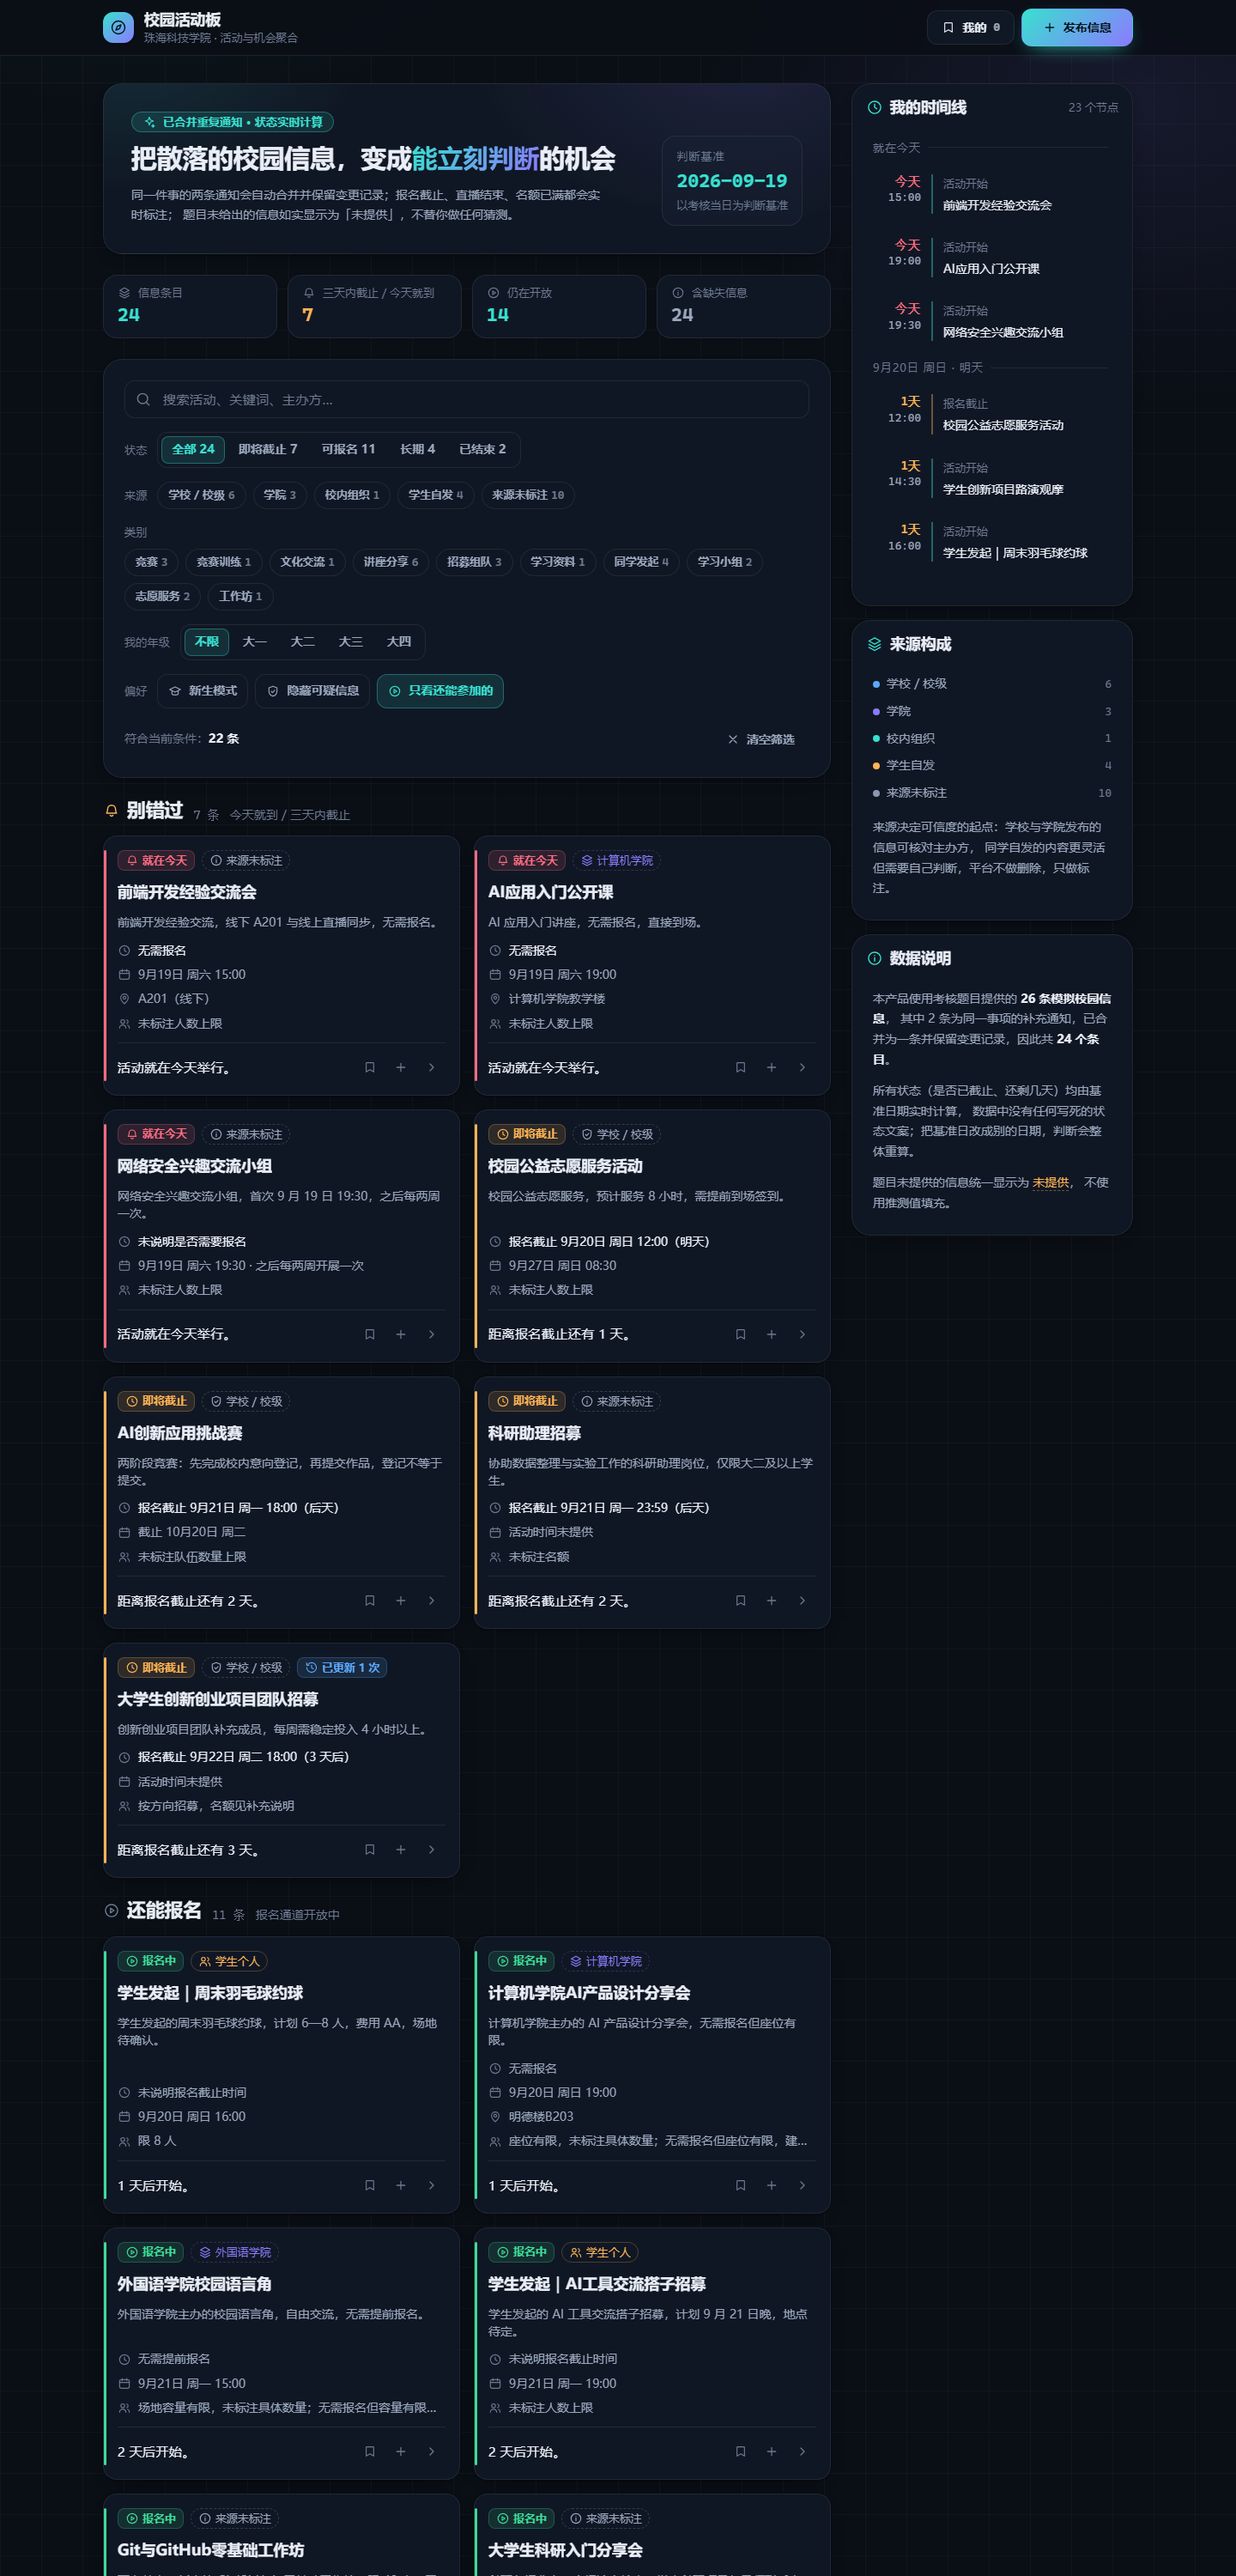
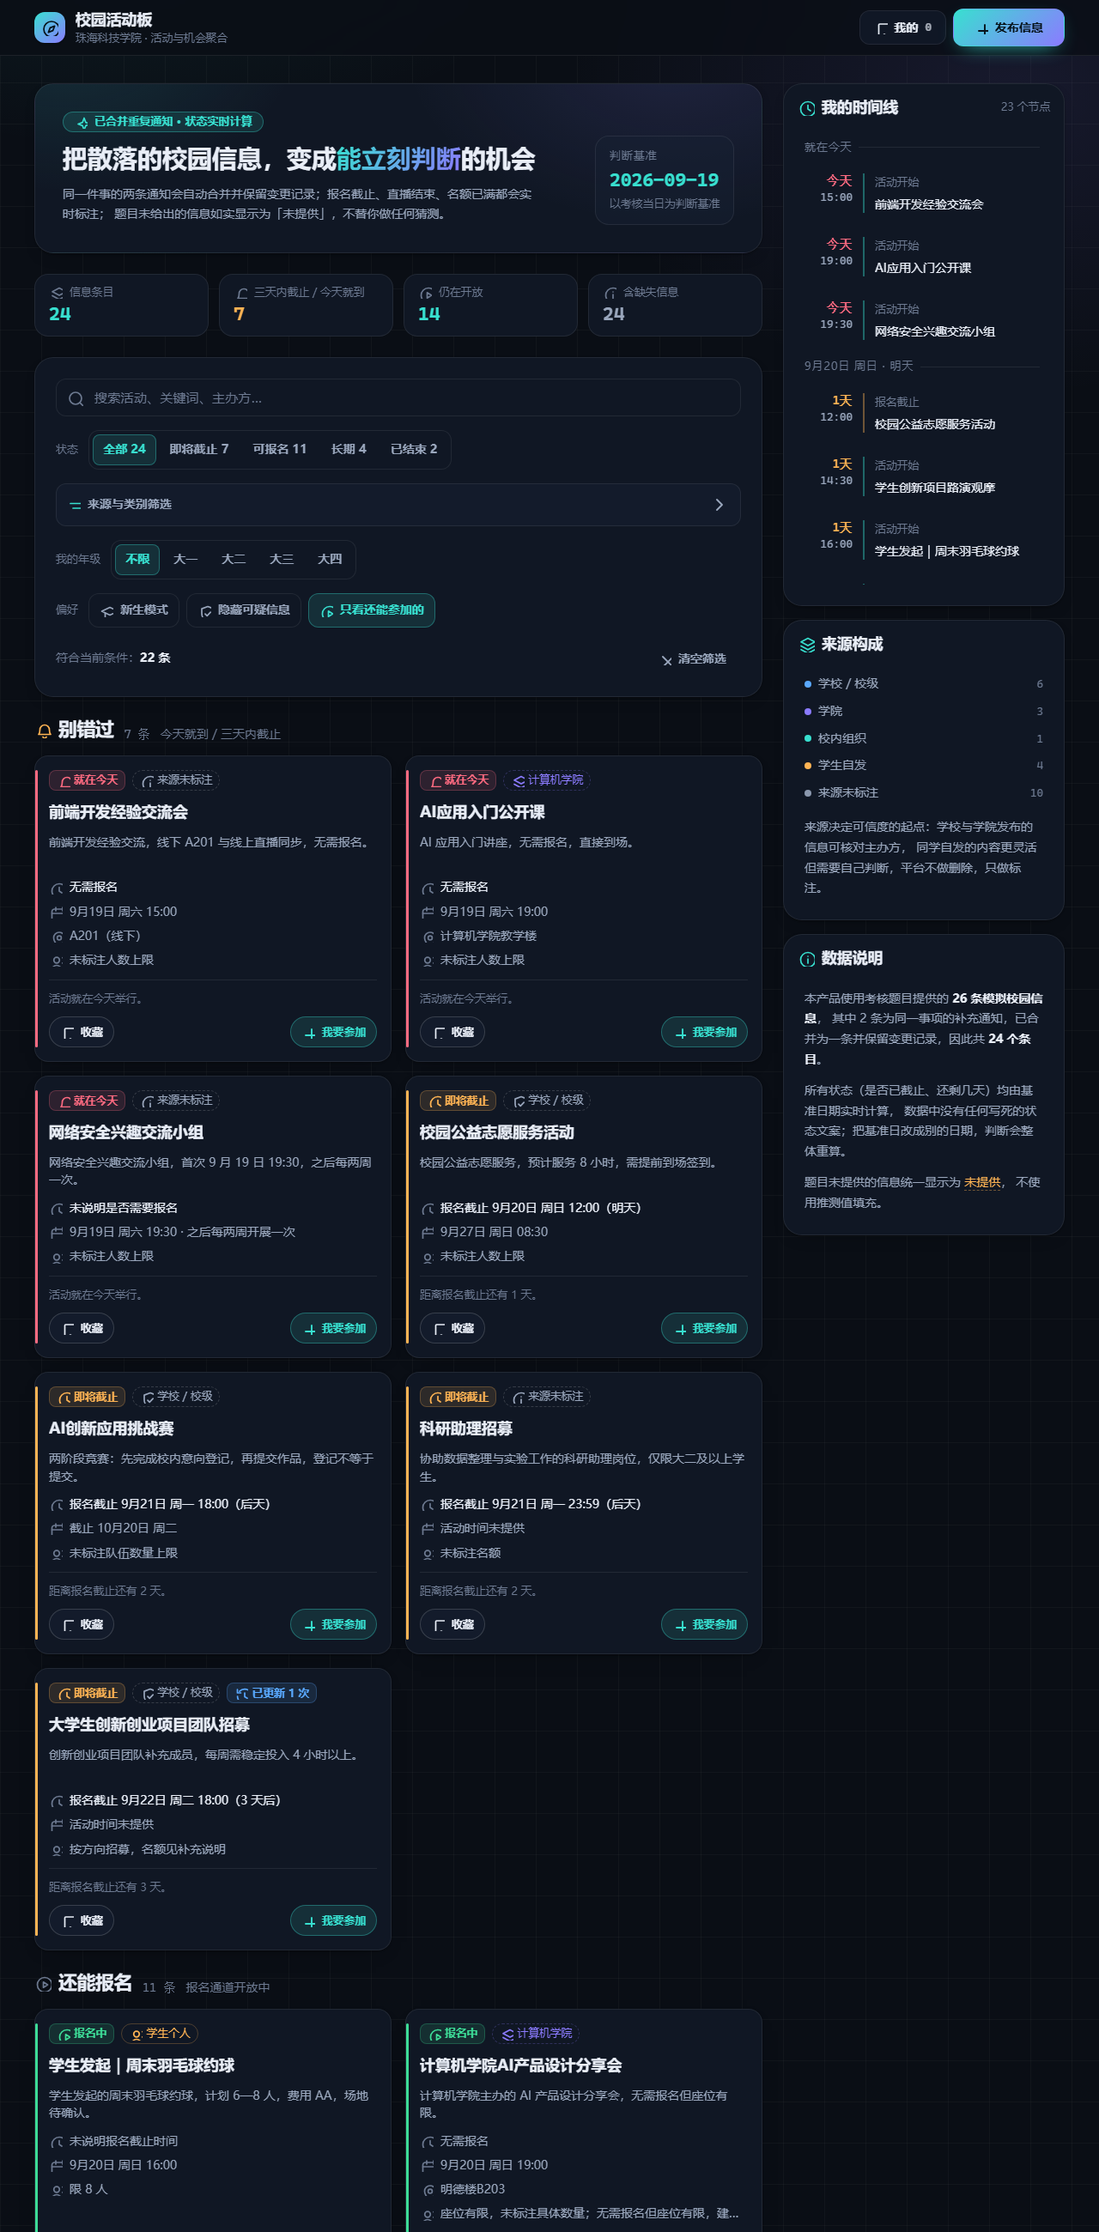
fix(ui): 修复卡片操作按钮过小、融入背景与状态说明被挤压的问题
用户反馈：收藏与加入按钮尺寸偏小，且颜色融入背景、看不出可点击。

根因（实测数据）
- .icon-btn 原为 32px、透明底、var(--text-subtle) 灰色图标，
  小于设计令牌自身规定的 40px 最小可点尺寸，且与卡片底色无对比
- 卡片底部把状态说明与三个按钮放在同一行：245px 可用宽度里按钮占掉 226px，
  状态说明被压缩到 6px 而完全不可见（浏览器实测 getBoundingClientRect）
- 网格最小列宽 300px 时，1280px 主列（约 820px）下每行只能排 1 张，横向空间被浪费

改动
- 新增 .act-btn：36px 高、描边 + 底色，图标 16px 并配文字（收藏 / 已收藏、我要参加 / 已加入）
- 主操作「我要参加」用主色填充，选中态整体填充主色，层级与状态一眼可辨
- .icon-btn 提升到 36px 并加描边底色；抽屉标题栏的关闭按钮单独降级为无边框
- 卡片底部改为纵向排列：状态说明独占一行（最多两行），操作按钮另起一行
- 移除卡片右下角冗余的「查看详情」箭头（标题本就可点开详情），
  为两个主要操作腾出空间；卡片增加手型光标反馈
- 筛选芯片与分段控件同步提升到 36px，与卡片按钮同档
- 网格最小列宽定为 280px（实测下限：再窄则两个按钮与状态说明无法共存）

防回归测试（tests/dom-wiring.test.js 新增 3 项，现共 13 项）
- 可点元素尺寸不得低于 36px（含分段控件整体高度与 --h-control 令牌）
- 卡片操作按钮必须同时具备图标与文字，不允许裸图标
- .act-btn 必须声明可见描边与底色，防止再次融入背景

同时更新交付截图（卡片按钮改版，旧图已过时）并补充按钮两种状态图。

diff --git a/css/app.css b/css/app.css
@@ -607,7 +607,7 @@
   letter-spacing: var(--ls-label);
 }
 
-/* 分段控件：互斥选项 */
+/* 分段控件：互斥选项。外层留白 4px，内部按钮 36px，总高 44px */
 .segmented {
   display: inline-flex;
   gap: var(--sp-1);
@@ -618,7 +618,7 @@
 }
 
 .segmented button {
-  height: calc(var(--h-control) - var(--sp-2));
+  height: 36px;
   padding: 0 var(--sp-3);
   border-radius: calc(var(--r-md) - var(--sp-1));
   color: var(--text-muted);
@@ -637,14 +637,14 @@
   box-shadow: inset 0 0 0 1px var(--border-accent);
 }
 
-/* 筛选芯片：可多选 */
+/* 筛选芯片：可多选。36px 与卡片按钮同档，保证触屏可点 */
 .chip {
   display: inline-flex;
   align-items: center;
   gap: var(--sp-1);
-  height: 32px;
+  height: 36px;
   padding: 0 var(--sp-3);
-  border: 1px solid var(--border);
+  border: 1px solid var(--border-strong);
   border-radius: var(--r-pill);
   background: var(--bg-elev);
   color: var(--text-muted);
@@ -765,10 +765,10 @@
 }
 
 /* 卡片网格：同宽同高，杜绝大小不一。
-   上限 420px 保证宽屏下仍是多列，而不是把单卡拉成一条长带。 */
+   最小列宽 280px 是实测下限：再窄则底部的两个操作按钮与状态说明无法共存。 */
 .cards {
   display: grid;
-  grid-template-columns: repeat(auto-fill, minmax(min(100%, 300px), 1fr));
+  grid-template-columns: repeat(auto-fill, minmax(min(100%, 280px), 1fr));
   gap: var(--sp-4);
   align-items: stretch;
 }
@@ -798,6 +798,11 @@
 
 .card:focus-within {
   border-color: var(--border-accent);
+}
+
+/* 卡片本身可点开详情（标题是主要入口），给出指针反馈 */
+.card:has(.card-title-btn) {
+  cursor: pointer;
 }
 
 /* 左侧状态竖条：仅用于状态，不做装饰 */
@@ -898,50 +903,151 @@
   color: var(--text);
 }
 
+/* 卡片底部：状态说明独占一行，操作按钮另起一行。
+   之前两者同排，245px 的宽度里按钮占掉 226px，状态文字被压缩到 6px 而不可见
+   （实测数据），所以改为纵向排列。 */
 .card-foot {
   display: flex;
-  align-items: center;
-  justify-content: space-between;
-  gap: var(--sp-2);
+  flex-direction: column;
+  gap: var(--sp-3);
   margin-top: auto;
   padding-top: var(--sp-3);
   border-top: 1px solid var(--border);
 }
 
+/* 卡片底部的状态说明：整行可用，最多两行 */
+.card-status-note {
+  min-width: 0;
+  font-size: var(--fs-xs);
+  color: var(--text-subtle);
+  line-height: var(--lh-snug);
+  display: -webkit-box;
+  -webkit-line-clamp: 2;
+  -webkit-box-orient: vertical;
+  overflow: hidden;
+}
+
 .card-actions {
   display: flex;
   align-items: center;
-  gap: var(--sp-1);
+  justify-content: space-between;
+  gap: var(--sp-2);
 }
 
+/* 两个操作按钮都按内容宽度排布：
+   若让次级按钮占满剩余空间，它会与主操作视觉等重，削弱层级。
+   主操作靠主色填充区分，次级靠描边区分。 */
+.card-actions .act-btn {
+  flex: 0 0 auto;
+}
+
+.card-actions .icon-btn {
+  flex: 0 0 auto;
+}
+
+/* 卡片操作按钮
+   之前用 32px 无底色图标，既小于 40px 的可点尺寸，也和卡片底色融在一起、
+   看不出可点击。改为带描边与底色的明确按钮：默认可见，悬停加强。 */
+.act-btn {
+  display: inline-flex;
+  align-items: center;
+  gap: var(--sp-2);
+  height: 36px;
+  padding: 0 var(--sp-3);
+  border: 1px solid var(--border-strong);
+  border-radius: var(--r-pill);
+  background: var(--surface-2);
+  color: var(--text);
+  font-size: var(--fs-xs);
+  font-weight: var(--fw-strong);
+  line-height: 1;
+  white-space: nowrap;
+  transition: background var(--t-fast) var(--ease), border-color var(--t-fast) var(--ease),
+    color var(--t-fast) var(--ease), transform var(--t-fast) var(--ease);
+}
+
+.act-btn svg {
+  width: var(--icon-sm);
+  height: var(--icon-sm);
+  flex-shrink: 0;
+}
+
+.act-btn:hover {
+  border-color: var(--accent);
+  background: var(--accent-bg);
+  color: var(--accent);
+}
+
+.act-btn:active {
+  transform: scale(0.96);
+}
+
+/* 主操作：加入「我要参加」 */
+.act-btn-primary {
+  border-color: var(--border-accent);
+  background: var(--accent-bg);
+  color: var(--accent);
+}
+
+.act-btn-primary:hover {
+  border-color: var(--accent);
+  background: var(--accent);
+  color: var(--on-accent);
+}
+
+/* 已选中的状态：填充以明确区分 */
+.act-btn[aria-pressed="true"] {
+  border-color: var(--accent);
+  background: var(--accent);
+  color: var(--on-accent);
+}
+
+/* 纯图标按钮（详情、编辑）：同样保证 36px 可点区域与可见描边 */
 .icon-btn {
   display: inline-grid;
   place-items: center;
-  width: 32px;
-  height: 32px;
-  border-radius: var(--r-sm);
-  color: var(--text-subtle);
+  width: 36px;
+  height: 36px;
+  border: 1px solid var(--border-strong);
+  border-radius: var(--r-pill);
+  background: var(--surface-2);
+  color: var(--text-muted);
   transition: background var(--t-fast) var(--ease), color var(--t-fast) var(--ease),
-    transform var(--t-fast) var(--ease);
+    border-color var(--t-fast) var(--ease), transform var(--t-fast) var(--ease);
 }
 
 .icon-btn svg {
-  width: var(--icon-sm);
-  height: var(--icon-sm);
+  width: var(--icon-md);
+  height: var(--icon-md);
 }
 
 .icon-btn:hover {
-  background: var(--surface-2);
-  color: var(--text);
+  border-color: var(--accent);
+  background: var(--accent-bg);
+  color: var(--accent);
 }
 
 .icon-btn:active {
-  transform: scale(0.92);
+  transform: scale(0.94);
 }
 
 .icon-btn[aria-pressed="true"] {
-  color: var(--accent);
+  border-color: var(--accent);
   background: var(--accent-bg);
+  color: var(--accent);
+}
+
+/* 抽屉标题栏里的关闭按钮：不要描边，避免与标题抢注意力 */
+.drawer-head .icon-btn {
+  border-color: transparent;
+  background: transparent;
+  color: var(--text-subtle);
+}
+
+.drawer-head .icon-btn:hover {
+  background: var(--surface-2);
+  border-color: var(--border);
+  color: var(--text);
 }
 
 /* ================================ 徽标与芯片 ================================ */

diff --git a/tests/dom-wiring.test.js b/tests/dom-wiring.test.js
@@ -153,6 +153,75 @@ test("字体大小只在令牌中定义，组件层不出现裸 px 字号", () =
   assert(bad.length === 0, `存在裸字号（应使用 var(--fs-*)）：\n      ${bad.join("\n      ")}`);
 });
 
+test("可点元素尺寸不低于 36px（触屏可用性）", () => {
+  const css = fs.readFileSync(path.join(ROOT, "css", "app.css"), "utf8");
+  const tokens = fs.readFileSync(path.join(ROOT, "css", "tokens.css"), "utf8");
+  const MIN = 36;
+  const bad = [];
+
+  const ruleRe = /([^{}]+)\{([^{}]*)\}/g;
+  let m;
+  while ((m = ruleRe.exec(css))) {
+    const selectors = m[1].trim();
+    const body = m[2];
+    if (!/(^|[\s,])\.(icon-btn|act-btn|btn|chip|switch)\b/.test(selectors)) continue;
+    if (/\[aria-pressed/.test(selectors)) continue;   // 状态变体不重复声明尺寸
+    if (/::/.test(selectors)) continue;               // 伪元素是装饰，不是可点区域
+    const h = /(?:^|[;\s])height:\s*(\d+)px/.exec(body);
+    if (!h) continue;
+    const value = Number(h[1]);
+    if (value < MIN) bad.push(`${selectors.trim()} height:${value}px`);
+  }
+
+  // 分段控件由「外层容器留白 + 内部按钮」构成，检查整体高度是否达标
+  const segOuter = /\.segmented\s*\{([^}]*)\}/.exec(css);
+  const segInner = /\.segmented button\s*\{([^}]*)\}/.exec(css);
+  if (segOuter && segInner) {
+    const padRaw = /padding:\s*([^;]+);/.exec(segOuter[1]);
+    // 令牌变量按 --sp-1 = 4px 解析，其余情况按 4px 处理
+    const pad = padRaw ? (/(\d+)px/.test(padRaw[1]) ? Number(/(\d+)px/.exec(padRaw[1])[1]) : 4) : 0;
+    const inner = Number((/height:\s*(\d+)px/.exec(segInner[1]) || [0, 0])[1]);
+    if (inner && inner + pad * 2 < 40) {
+      bad.push(`.segmented 整体高度 ${inner + pad * 2}px（按钮 ${inner}px + 留白 ${pad * 2}px）`);
+    }
+  }
+
+  // 令牌层的最小尺寸变量也必须达标
+  const tokenMin = /--h-control:\s*(\d+)px/.exec(tokens);
+  if (tokenMin && Number(tokenMin[1]) < MIN) {
+    bad.push(`--h-control:${tokenMin[1]}px`);
+  }
+
+  assert(bad.length === 0,
+    `以下可点元素小于 ${MIN}px（用户在触屏上难以点中）：\n      ${bad.join("\n      ")}`);
+});
+
+test("卡片操作按钮同时具备图标与文字，且不是裸图标", () => {
+  const ui = fs.readFileSync(path.join(ROOT, "js", "ui.js"), "utf8");
+  assert(/var favBtn = el\("button", "act-btn"\)/.test(ui), "收藏按钮未使用 .act-btn");
+  assert(/var regBtn = el\("button", "act-btn act-btn-primary"\)/.test(ui),
+    "报名按钮未使用 .act-btn 主样式");
+  // 两个按钮都必须带文字标签，而不是只有图标
+  assert(/favOn \? "已收藏" : "收藏"/.test(ui), "收藏按钮缺少文字标签");
+  assert(/regOn \? "已加入" : "我要参加"/.test(ui), "报名按钮缺少文字标签");
+  // 图标必须成对出现（图标 + 文字）
+  assert(/favBtn\.appendChild\(icon\(/.test(ui), "收藏按钮缺少图标");
+  assert(/regBtn\.appendChild\(icon\(/.test(ui), "报名按钮缺少图标");
+});
+
+test("卡片操作按钮在深色底色上有可见的描边与底色", () => {
+  const css = fs.readFileSync(path.join(ROOT, "css", "app.css"), "utf8");
+  const block = /\.act-btn\s*\{([^}]*)\}/.exec(css);
+  assert(block, "找不到 .act-btn 规则");
+  const body = block[1];
+  assert(/border:\s*1px solid var\(--border-strong\)/.test(body),
+    "act-btn 缺少可见描边，会在深色卡片上融入背景");
+  assert(/background:\s*var\(--surface-2\)/.test(body),
+    "act-btn 缺少底色，会在深色卡片上融入背景");
+  assert(/color:\s*var\(--text\)/.test(body),
+    "act-btn 文字颜色过暗");
+});
+
 console.log(`\n${"-".repeat(52)}`);
 if (failures.length === 0) {
   console.log(`全部通过：${passed} 项检查`);

diff --git a/js/ui.js b/js/ui.js
@@ -199,7 +199,7 @@
     if (cap) facts.appendChild(fact("i-users", cap));
     card.appendChild(facts);
 
-    /* 底部操作 */
+    /* 底部操作：状态说明 + 明确的按钮（图标 + 文字，保证可点尺寸与可见性） */
     var foot = el("div", "card-foot");
     var stateText = el("span", "card-status-note", status.reason || "");
     stateText.title = status.reason || "";
@@ -207,13 +207,23 @@
 
     var actions = el("div", "card-actions");
 
-    var favBtn = iconButton(store.isFavorite(act.id) ? "i-bookmark-fill" : "i-bookmark",
-      store.isFavorite(act.id) ? "取消收藏" : "收藏", store.isFavorite(act.id));
+    var favOn = store.isFavorite(act.id);
+    var favBtn = el("button", "act-btn");
+    favBtn.type = "button";
+    favBtn.setAttribute("aria-pressed", String(favOn));
+    favBtn.setAttribute("aria-label", favOn ? "取消收藏" : "收藏这条信息");
+    favBtn.appendChild(icon(favOn ? "i-bookmark-fill" : "i-bookmark"));
+    favBtn.appendChild(el("span", null, favOn ? "已收藏" : "收藏"));
     favBtn.addEventListener("click", function () { handlers.toggleFavorite(act.id); });
     actions.appendChild(favBtn);
 
-    var regBtn = iconButton(store.isRegistered(act.id) ? "i-check" : "i-plus",
-      store.isRegistered(act.id) ? "取消「我要参加」" : "标记我要参加", store.isRegistered(act.id));
+    var regOn = store.isRegistered(act.id);
+    var regBtn = el("button", "act-btn act-btn-primary");
+    regBtn.type = "button";
+    regBtn.setAttribute("aria-pressed", String(regOn));
+    regBtn.setAttribute("aria-label", regOn ? "取消「我要参加」" : "标记我要参加");
+    regBtn.appendChild(icon(regOn ? "i-check" : "i-plus"));
+    regBtn.appendChild(el("span", null, regOn ? "已加入" : "我要参加"));
     regBtn.addEventListener("click", function () { handlers.toggleRegistered(act.id); });
     actions.appendChild(regBtn);
 
@@ -223,10 +233,8 @@
       actions.appendChild(editBtn);
     }
 
-    var more = iconButton("i-chevron", "查看详情");
-    more.addEventListener("click", function () { handlers.openDetail(act.id); });
-    actions.appendChild(more);
-
+    /* 详情入口：卡片标题可点，这里不再重复放一个箭头按钮，
+       否则在 280px 宽的卡片里会把两个主要操作挤到放不下。 */
     foot.appendChild(actions);
     card.appendChild(foot);
 
